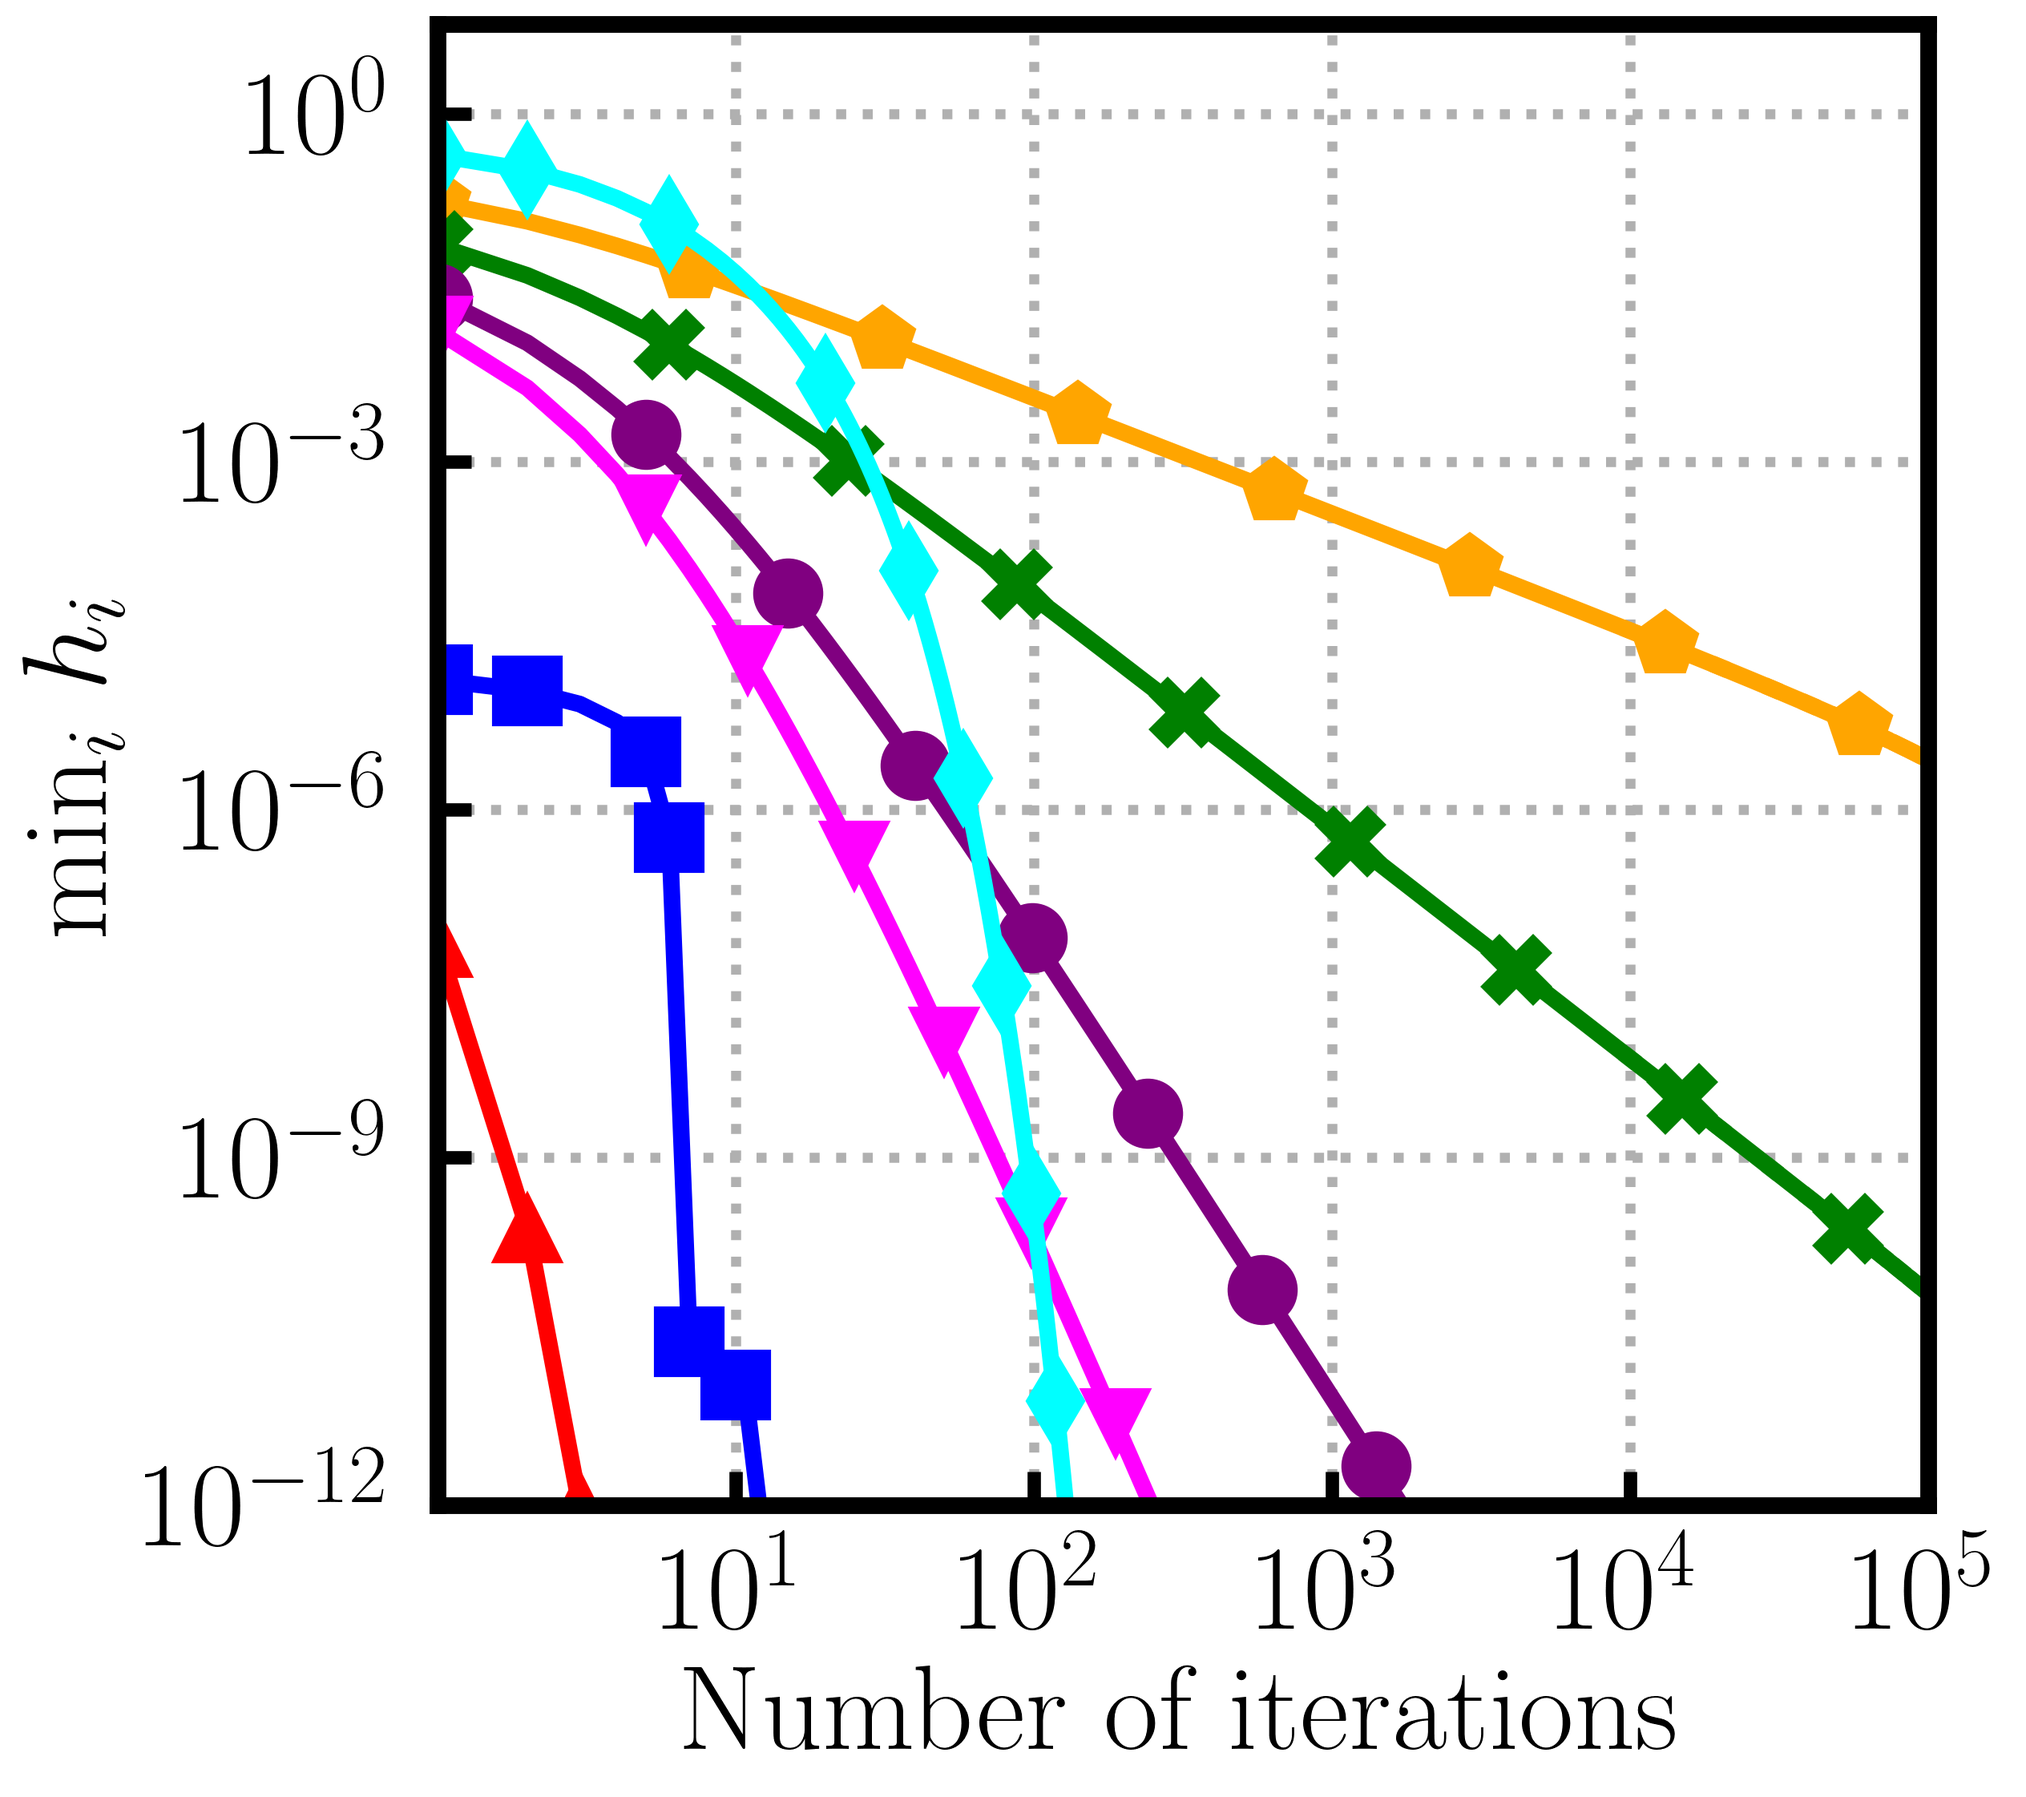
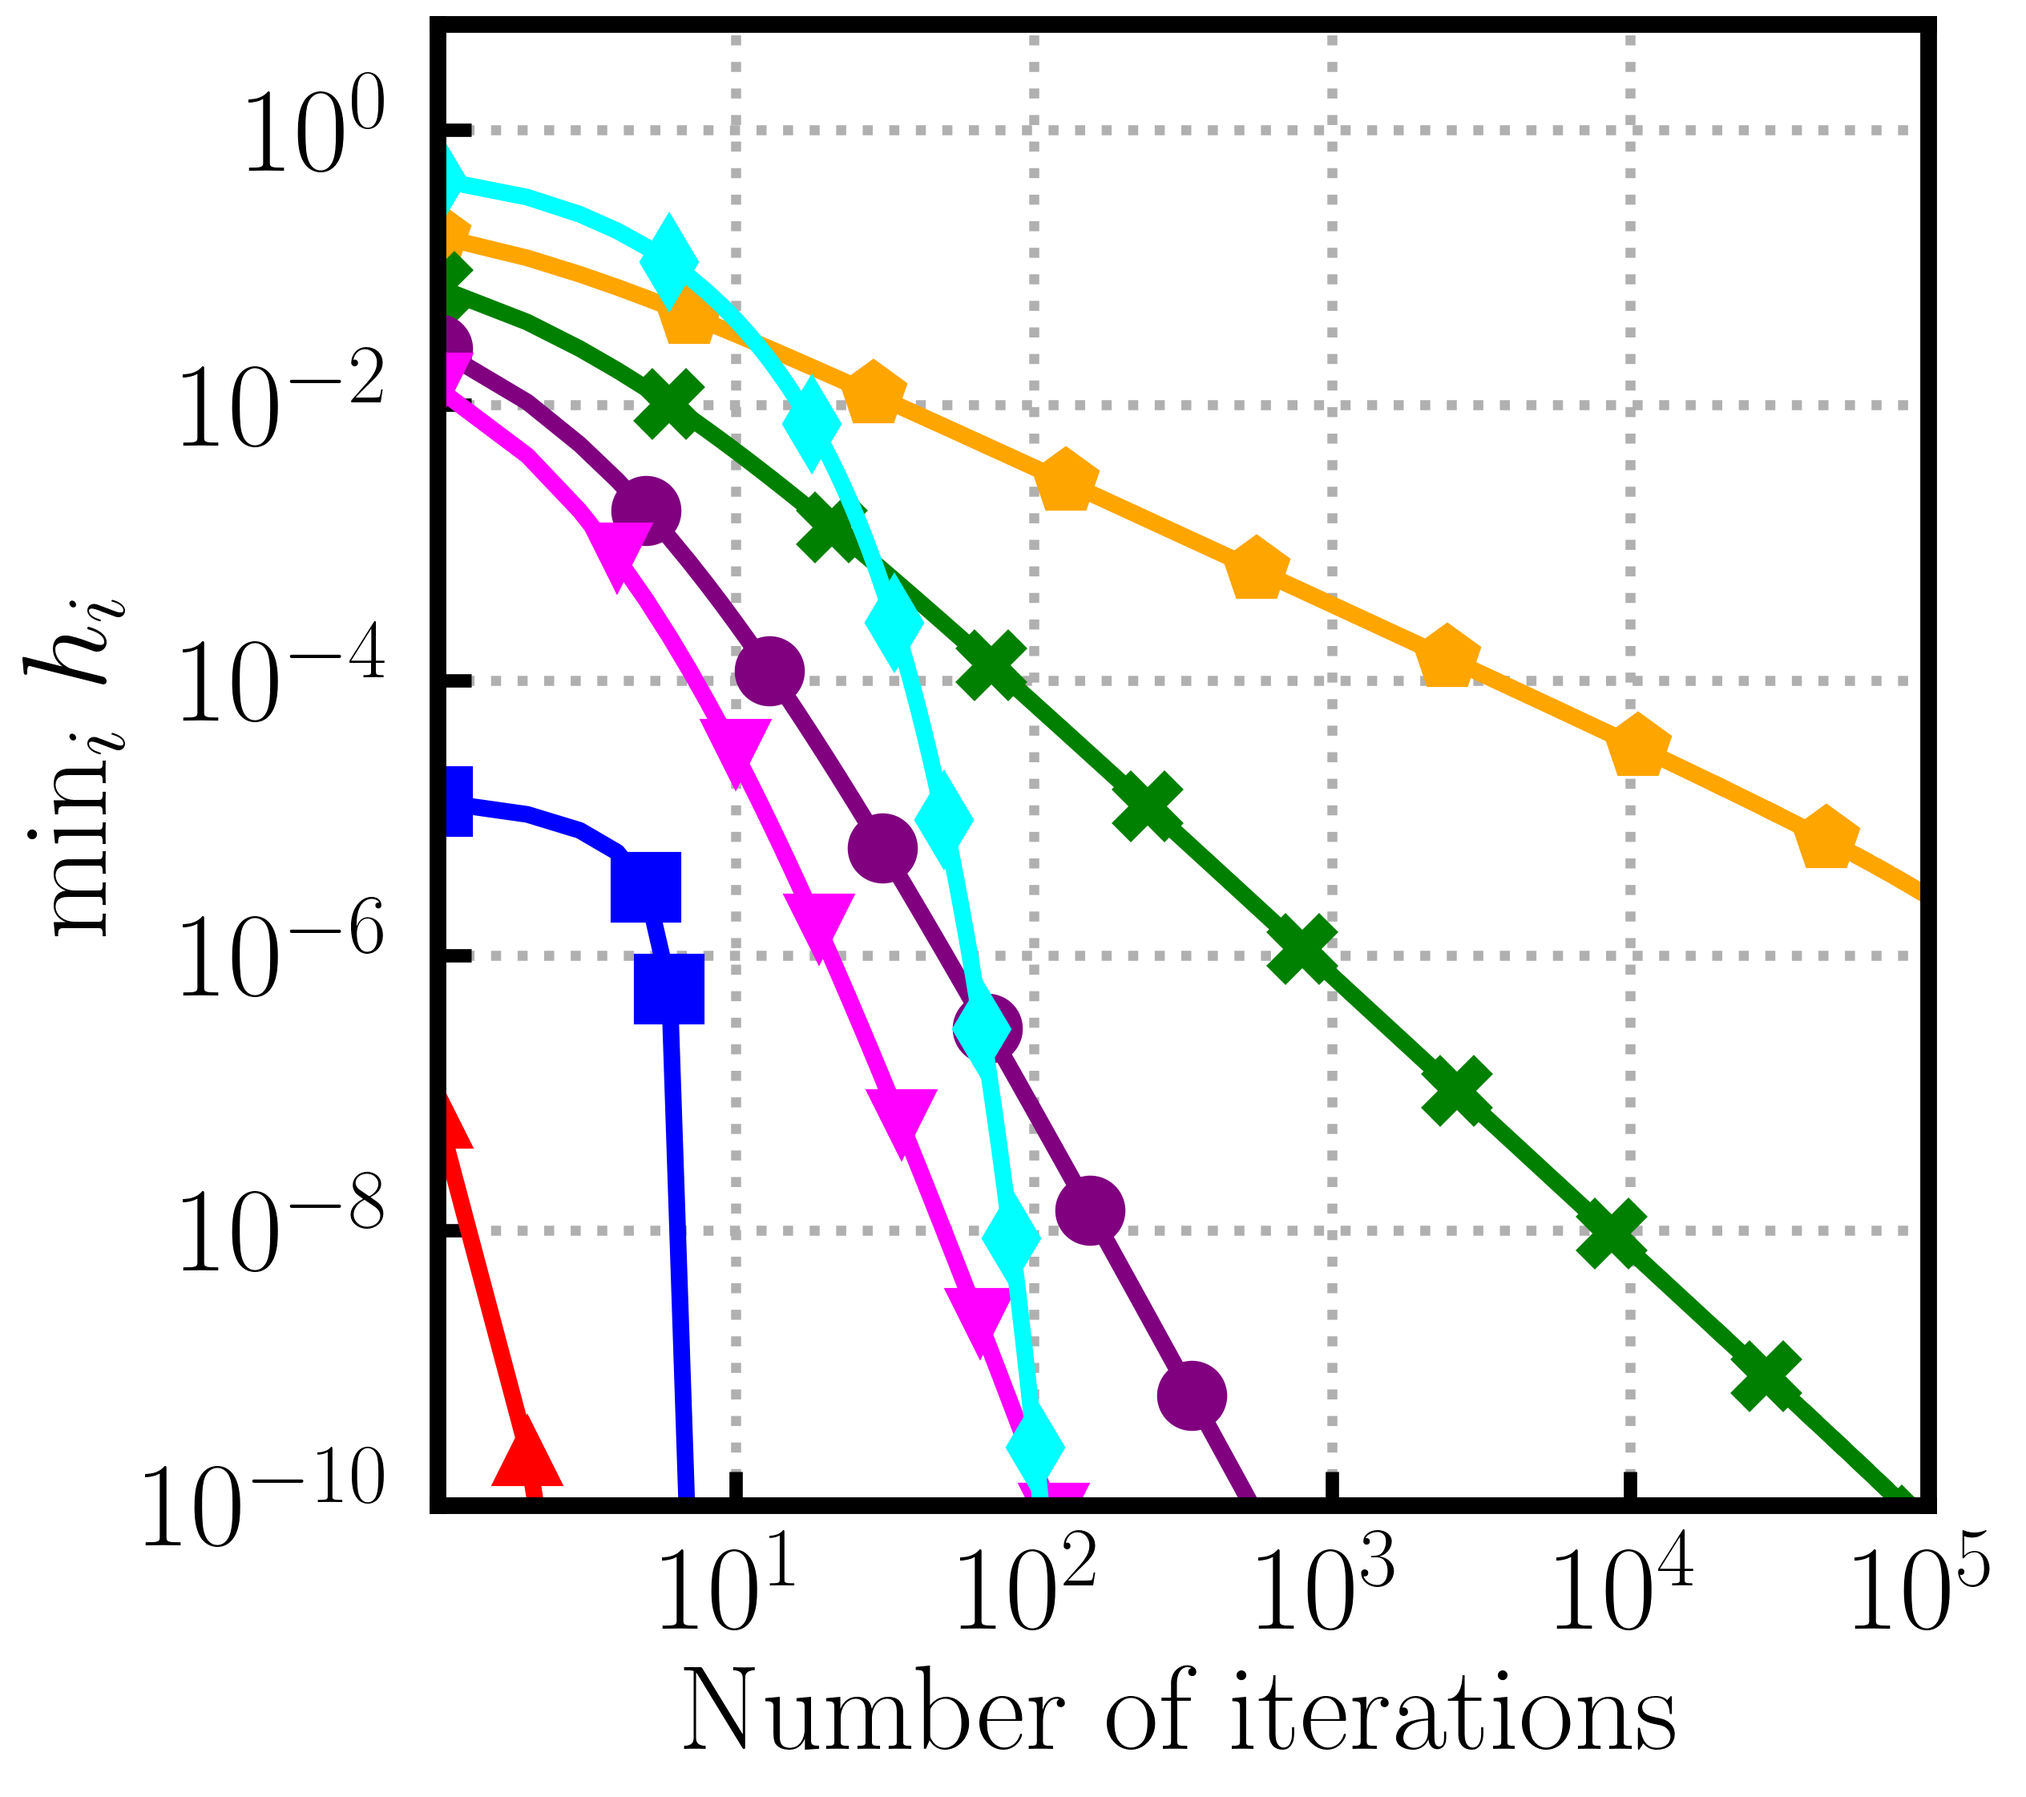
update to experiment setups

diff --git a/all_functions/plotting.py b/all_functions/plotting.py
@@ -9,7 +9,7 @@ def determine_y_lims(data):
     max_val = 1e-16
     min_val = 1e+16
     for entry in data:
-        min_val = max(min(min(entry) / 10, min_val), 1e-12)
+        min_val = max(min(min(entry) / 10, min_val), 1e-10)
         max_val = max(max(entry) * 10, max_val)
     return min_val, max_val
 
